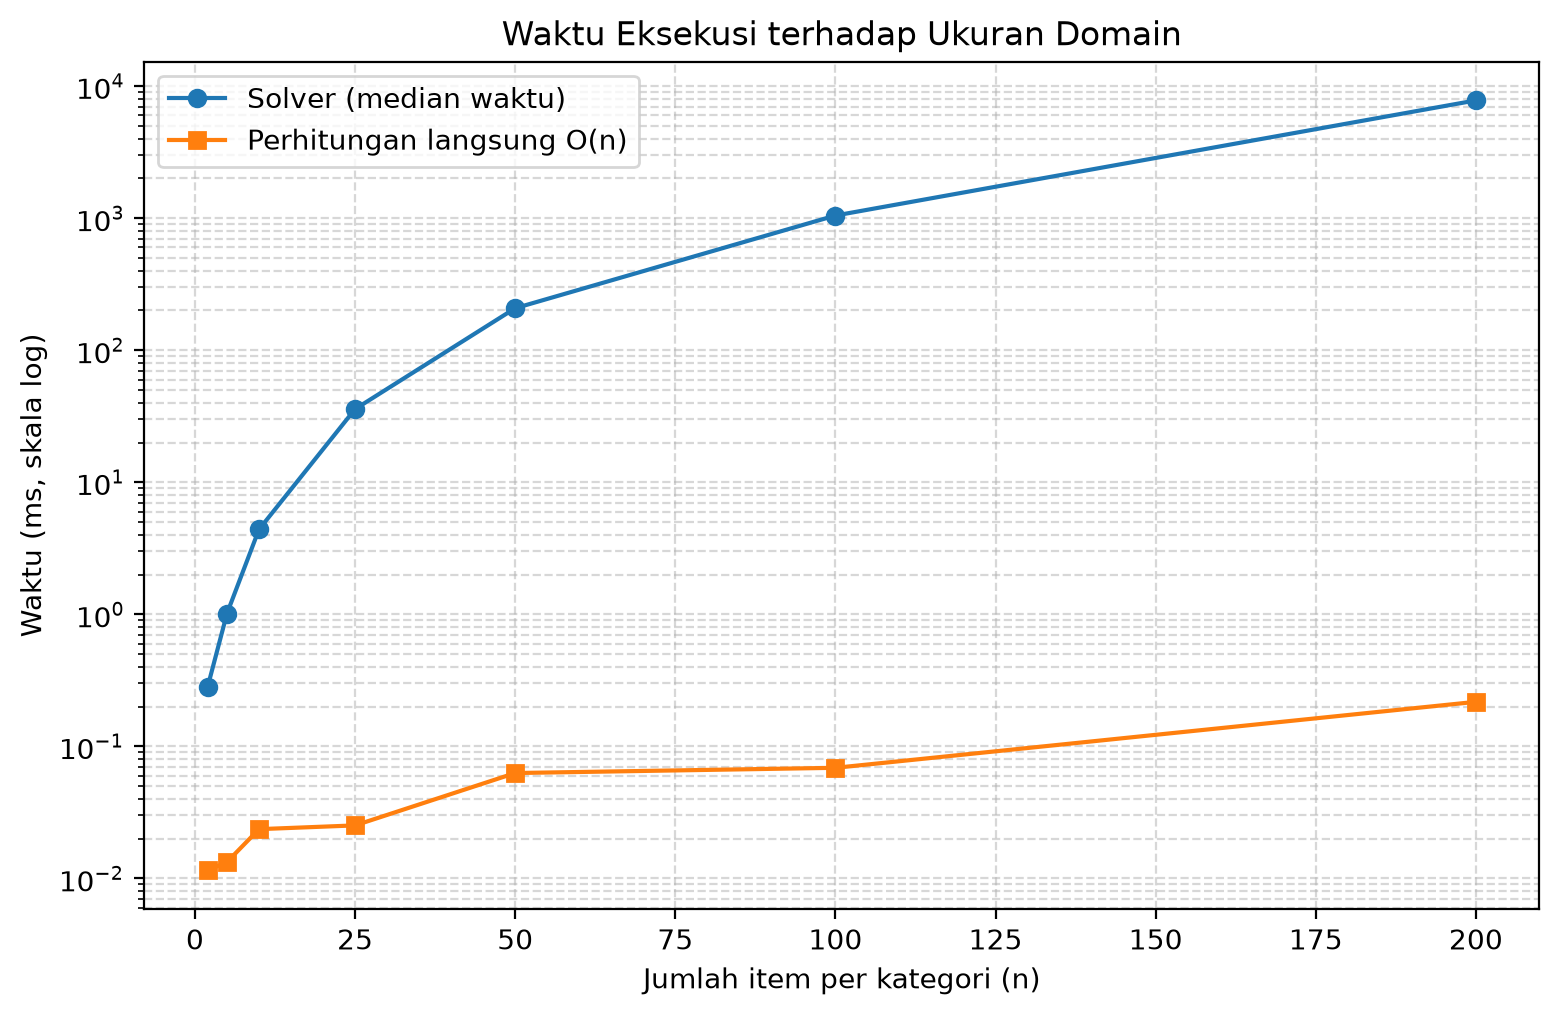
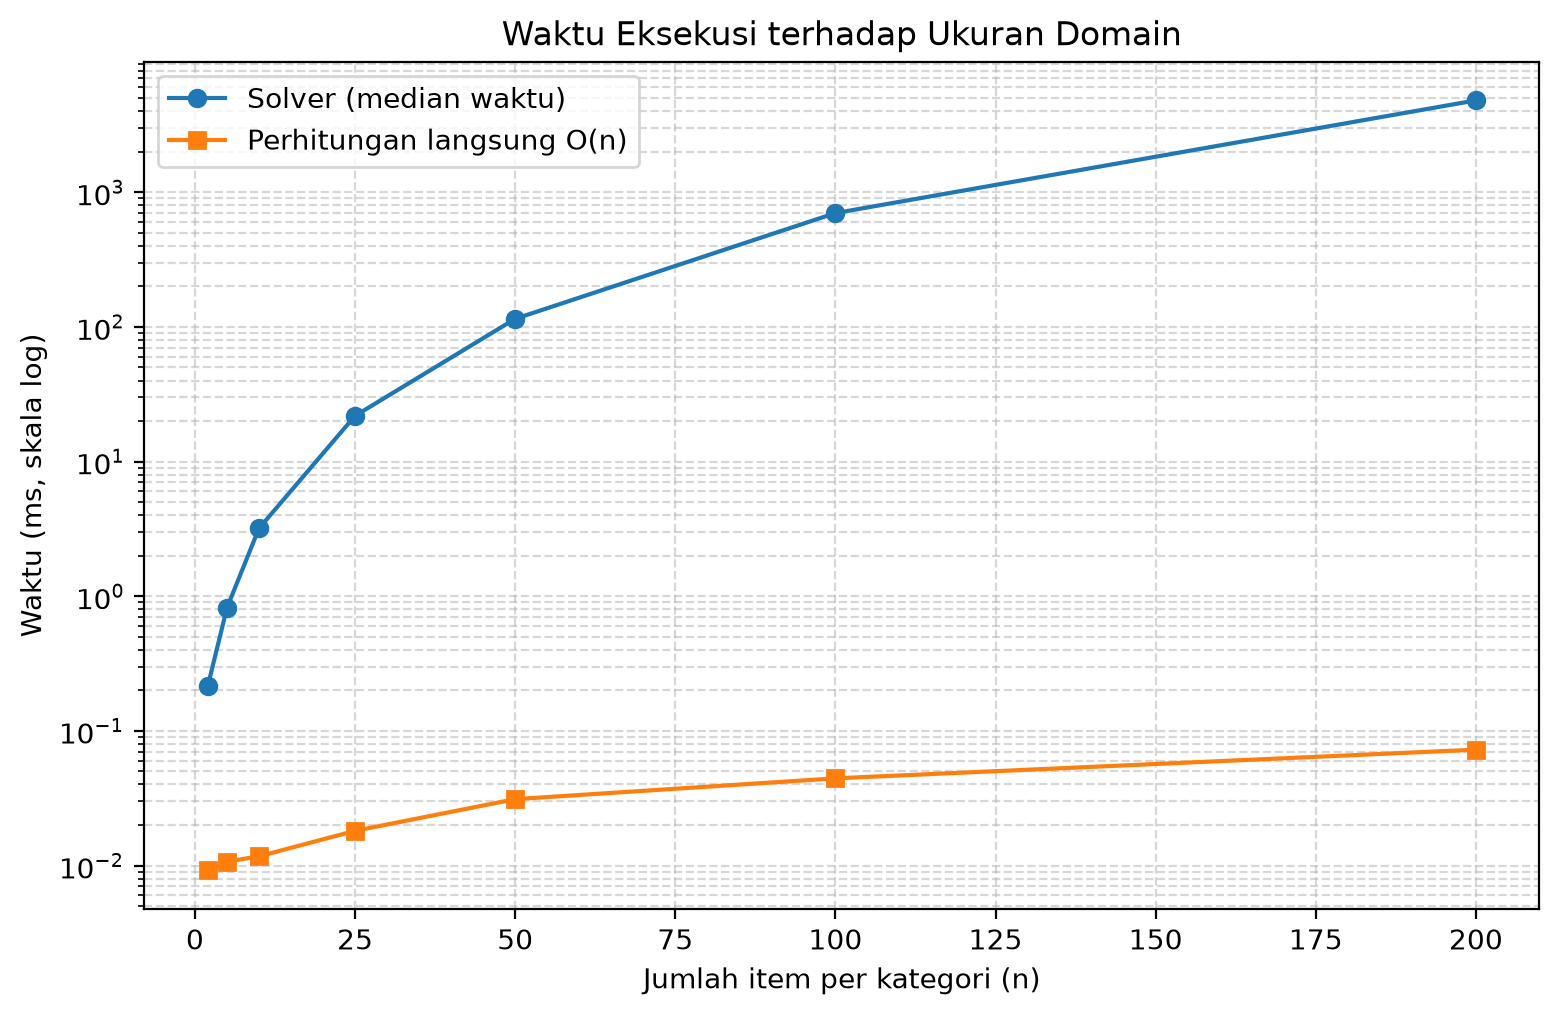
feat(perf): add sensitivity analysis data and scaling visualization plot

diff --git a/docs/milestone3_plan.md b/docs/milestone3_plan.md
@@ -1,0 +1,209 @@
+# Panduan Pengerjaan & Pembagian Peran Milestone 3 (W07)
+**Mata Kuliah:** 10S3001 – Kecerdasan Buatan (+P) | Gasal 2026/2027  
+**Proyek:** Toba Copilot (Enterprise AI Assistant & Vector Semantic Search)  
+**Judul Tugas:** Pembangunan Basis Pengetahuan Korpus & Vector Semantic Search  
+**Bobot Penilaian:** 9.0% Komponen Proyek (2.7% Nilai Akhir Semester)  
+
+---
+
+## 1. Pemahaman Singkat Milestone 3
+
+Milestone 3 berfokus pada pembangunan memori semantik perusahaan (*Enterprise Knowledge Base*) menggunakan basis data vektor **ChromaDB**. Sistem ini mengonversi korpus regulasi, standar operasional prosedur (SOP), dan kebijakan pariwisata Danau Toba ke dalam bentuk vektor padat (*dense vector embeddings*) untuk mendukung temu balik informasi semantik (*semantic retrieval*) yang akurat serta menjadi fondasi sistem *Retrieval-Augmented Generation* (RAG).
+
+### Komponen Rubrik Penilaian (Skala 100)
+1. **Kualitas Data Korpus & Prapemrosesan (25%):**
+   * Korpus representatif (minimal 10–15 dokumen SOP/regulasi bisnis).
+   * Pembersihan teks rapi dan terstruktur (tidak merusak semantik/aturan).
+   * Strategi *chunking* (*size* & *overlap*) memiliki landasan dan justifikasi ilmiah.
+2. **Pipeline Embedding & Vector Store ChromaDB (45%):**
+   * Pemilihan model *Sentence-Transformers* tepat (multilingual untuk teks Bahasa Indonesia).
+   * Penyimpanan berbasis disk/persisten (`chromadb.PersistentClient`).
+   * Konfigurasi ruang metrik HNSW secara eksplisit menggunakan *Cosine Similarity* (`{"hnsw": {"space": "cosine"}}`).
+   * Struktur *metadata* tersimpan lengkap untuk mendukung *metadata filtering* / *hybrid search*.
+3. **Akurasi & Analisis Temu Balik Semantik (30%):**
+   * Kueri semantik berhasil menarik dokumen target dengan skor *Cosine Similarity* tinggi.
+   * Uji coba minimal 5 kueri bisnis (kueri relevan, kueri sinonim/parafrasa, dan kueri *out-of-domain*).
+   * Penanganan kueri luar domain teruji presisi melalui mekanisme ambang batas (*guardrail threshold*).
+   * Analisis metrik temu balik: $P@k$ (*Precision@k*) dan $R@k$ (*Recall@k*).
+
+---
+
+## 2. Poin Kunci & Jebakan Teknis (Berdasarkan Materi Minggu 07)
+
+* **Jarak Bawaan ChromaDB Bukan Cosine:**  
+  ChromaDB secara *default* menggunakan metrik jarak kuadrat Euclidean (*squared* $L_2$). Koleksi **wajib** dikonfigurasi eksplisit ke ruang *cosine*:
+  ```python
+  collection = client.get_or_create_collection(
+      name="toba_knowledge_base",
+      configuration={"hnsw": {"space": "cosine"}}
+  )
+  ```
+  Pada ruang jarak *cosine*, skor kemiripan dihitung dengan rumus:
+  $$\text{Similarity} = 1 - \text{Distance}$$
+* **Model Multilingual vs Monolingual English:**  
+  Model bahasa Inggris murni (seperti `all-MiniLM-L6-v2`) memberikan skor kesamaan tinggi secara tidak wajar pada teks Bahasa Indonesia di luar domain (tidak memiliki *separability* yang baik). Gunakan model multibahasa resmi seperti `paraphrase-multilingual-MiniLM-L12-v2` agar pemisahan kueri sah dan kueri luar domain menjadi signifikan.
+* **Stopword Removal Hati-hati:**  
+  Menghapus kata-kata negasi seperti *"tidak"*, *"tanpa"*, atau *"dilarang"* dari dokumen regulasi/SOP akan membalikkan makna aturan secara fatal. Prapemrosesan harus mempertahankan konteks kalimat.
+* **Pencarian Cepat ANN (HNSW):**  
+  *Hierarchical Navigable Small World* (HNSW) menggantikan pencarian linear $O(N)$ menjadi skala logaritmik $O(\log N)$, menukar sedikit ketelitian demi kecepatan penelusuran di jutaan dimensi vektor.
+* **Ambang Batas (*Guardrail Threshold*):**  
+  Nilai ambang penolakan kueri di luar domain (misal $0.15 - 0.25$) harus diperoleh melalui kalibrasi uji empiris, bukan sekadar tebakan.
+
+---
+
+## 3. Pembagian Tugas Berdasarkan Peran Tim
+
+### Tim Pengembang — Kelompok 7
+
+| NIM | Nama | Peran (*Role*) |
+|---|---|---|
+| **12S24042** | **Ventyola Rohati Napitupulu** | Data & Knowledge Engineer |
+| **12S24003** | **Michael Pratama Nasution** | AI Architect & Model Lead |
+| **12S24027** | **Grasia Simanullang** | Integration & Interface Engineer |
+
+---
+
+### A. Ventyola Rohati Napitupulu — *Data & Knowledge Engineer*
+**Fokus Area:** Kurasi Korpus Bisnis, Metadata, Prapemrosesan, dan Strategi Chunking (Kontribusi Rubrik 25%)
+
+* [x] **Inisialisasi Dependensi & Lingkungan Kerja M3:**
+  * Menambahkan dependensi `sentence-transformers`, `chromadb`, dan `pypdf` ke `pyproject.toml` dan `uv.lock`.
+  * Mengonfigurasi `.gitignore` untuk mengabaikan artefak database vektor persisten `chroma_db/`.
+* [ ] **Pengumpulan Korpus Bisnis (10–15 Dokumen):**
+  * Mengumpulkan dan mengurasi 10–15 dokumen SOP, regulasi, dan manual kebijakan pariwisata Toba (contoh: SOP Reservasi & Check-in Homestay, Regulasi Retribusi & Tiket Wisata Pemkab Toba, Pedoman CHSE, Kebijakan Pembatalan, Panduan Wisata Air Danau Toba, Etika Konservasi Kaldera Toba).
+  * Menyimpan dokumen bersih dalam format teks terstruktur (`.txt` / `.md`) pada folder `data/corpus/`.
+* [ ] **Desain Skema Metadata:**
+  * Merancang atribut metadata untuk setiap dokumen (contoh: `doc_id`, `judul`, `kategori` seperti `akomodasi`/`regulasi`/`keamanan`, `instansi_penerbit`, `tanggal_berlaku`) untuk memungkinkan penyaringan (*metadata filtering*).
+* [ ] **Prapemrosesan Teks (*Text Cleaning*):**
+  * Mengembangkan fungsi normalisasi teks (pembersihan karakter liar, spasi ganda, penyeragaman format tanda baca).
+  * Memastikan kata negasi (*"tidak"*, *"dilarang"*, *"wajib"*) tidak tereduksi.
+* [ ] **Implementasi & Justifikasi Chunking:**
+  * Membagi dokumen menggunakan metode *word-aware/recursive chunking* dengan *sliding window overlap* (misal: chunk size 300–500 karakter dengan overlap 50–100 karakter).
+  * Menyusun kajian ilmiah/justifikasi dalam laporan mengenai penentuan parameter *chunk size* dan *overlap* (mencegah pemutusan makna kalimat penting).
+
+---
+
+### B. Michael Pratama Nasution — *AI Architect & Model Lead*
+**Fokus Area:** Seleksi Model Vektor, Desain Vector Store, Formulasi Guardrail, dan Analisis Matematis (Kontribusi Rubrik 45% & 30%)
+
+* [ ] **Analisis & Seleksi Model Embedding:**
+  * Mengkaji model *Sentence-Transformers* yang optimal untuk korpus Bahasa Indonesia (justifikasi pemilihan `paraphrase-multilingual-MiniLM-L12-v2` terhadap kebutuhan komputasi, dimensi 384, dan akurasi semantik).
+* [ ] **Arsitektur ChromaDB & Ruang Metrik:**
+  * Mengonfigurasi arsitektur penyimpanan berbasis disk persisten (`PersistentClient`).
+  * Mengunci konfigurasi metrik jarak pada HNSW ke ruang `cosine` (`{"hnsw": {"space": "cosine"}}`).
+* [ ] **Perancangan Ambang Batas (*Guardrail Threshold*):**
+  * Merancang batas toleransi skor kesamaan semantik secara empiris untuk menyaring kueri yang berada di luar cakupan korpus (*out-of-domain*).
+* [ ] **Evaluasi Matematis & Tolok Ukur Temu Balik:**
+  * Melakukan perhitungan teoritis dan analisis metrik evaluasi $P@k$ (*Precision@k*) dan $R@k$ (*Recall@k*).
+  * Memimpin penulisan dokumen laporan teknis PDF (`Grup07-Tugas03.pdf`) terutama pada bagian Arsitektur Model, Formulasi Matematis, dan Analisis Perbandingan Hasil Uji.
+
+---
+
+### C. Grasia Simanullang — *Integration & Interface Engineer*
+**Fokus Area:** Rekayasa Pipeline Ingestion, Modul Retriever, Pengujian Otomatis, dan Repositori (Kontribusi Rubrik 45% & 30%)
+
+* [ ] **Pembangunan Pipeline Ingestion End-to-End:**
+  * Mengembangkan skrip modular Python (misal: `ingest.py`) yang membaca file dari `data/corpus/`, memecah teks via modul chunking, mengekstrak embedding, dan mengindeks seluruh vektor beserta metadata ke dalam ChromaDB.
+* [ ] **Pengembangan Modul Pencarian (*Semantic Retriever*):**
+  * Mengembangkan antarmuka pencarian (misal: `retriever.py` atau kelas `VectorSearchEngine`) yang mendukung parameter kueri, nilai `top_k`, penyaringan metadata (`where={"kategori": "..."}`), dan pengecekan ambang batas (*threshold guardrail*).
+* [ ] **Penyusunan Pengujian & Tolok Ukur (*Benchmarking Suite*):**
+  * Mengimplementasikan skrip pengujian (misal: `benchmark.py` atau pengujian berbasis `pytest`) dengan minimal 5 skenario kueri bisnis:
+    1. Kueri Relevan Harfiah (*Exact/Keyword match*)
+    2. Kueri Relevan Parafrasa/Sinonim (*Semantic variation*)
+    3. Kueri Berbasis Spesifikasi/Kategori dengan Filter Metadata
+    4. Kueri Ambigu
+    5. Kueri *Out-of-Domain* (luar cakupan dokumen)
+  * Menghasilkan rekapitulasi data skor jarak (*distance*) dan kesamaan (*similarity*).
+* [x] **Sinkronisasi Repositori & Dependensi Proyek (Inisial):**
+  * Memverifikasi dependensi utama (`chromadb`, `sentence-transformers`, `pypdf`) di `pyproject.toml` dengan instalasi Astral `uv`.
+  * Memperbarui panduan instalasi dan eksekusi pada `README.md`.
+
+---
+
+## 4. Roadmap Eksekusi Milestone 3 (Tahapan Kerja Terpadu)
+
+Roadmap pengerjaan disusun ke dalam 5 fase berurutan untuk memastikan seluruh komponen rubrik (Korpus 25%, Vector Store 45%, Benchmark 30%) terpenuhi secara maksimal dan sistematis:
+
+```mermaid
+gantt
+    title Roadmap Eksekusi Milestone 3 - Toba Copilot
+    dateFormat  YYYY-MM-DD
+    section Fase 1: Data & Korpus
+    Kurasi 10-15 Dokumen SOP & Metadata (Ventyola)    :active, f1, 2026-11-05, 2d
+    section Fase 2: Chunking & Model
+    Word-aware Recursive Chunker (Ventyola)           :f2a, after f1, 1d
+    Konfigurasi Sentence-Transformers (Michael)       :f2b, after f1, 1d
+    section Fase 3: ChromaDB Vector Store
+    Pipeline Ingestion & Indexing Persisten (Grasia)  :f3, after f2a, 2d
+    section Fase 4: Retriever & Benchmark
+    Engine Retrieval & Guardrail Threshold (Grasia)   :f4a, after f3, 1d
+    Eksekusi 5 Kueri Benchmark, P@k, R@k (Michael)    :f4b, after f4a, 1d
+    section Fase 5: Pelaporan & Deliverables
+    Penyusunan Laporan PDF Grup07-Tugas03 (Michael)   :f5a, after f4b, 2d
+    Finalisasi README & Push Repo GitHub (Tim)        :f5b, after f5a, 1d
+```
+
+### Rincian Fase & Checklist Capaian
+
+| Fase | Target Luaran & Aktivitas Utama | Penanggung Jawab | Status |
+|---|---|---|:---:|
+| **Fase 1: Fondasi Data & Korpus Enterprise** | • Mengumpulkan 10–15 berkas SOP/kebijakan pariwisata Toba di `data/corpus/`<br>• Merancang skema metadata (`doc_id`, `kategori`, `instansi`, `target`)<br>• Normalisasi teks tanpa merusak makna aturan/negasi | **Ventyola Rohati** | 🟡 *In Progress* |
+| **Fase 2: Arsitektur Model & Chunking Engine** | • Pemilihan & justifikasi model `paraphrase-multilingual-MiniLM-L12-v2`<br>• Pembangunan skrip `src/chunking.py` (word-aware chunking dengan overlap)<br>• Penulisan justifikasi ilmiah ukuran chunk size & window overlap | **Ventyola Rohati** & **Michael Pratama** | ⚪ *Pending* |
+| **Fase 3: Persistent Indexing & ChromaDB** | • Pembuatan skrip `src/ingest.py` (baca korpus $\rightarrow$ chunk $\rightarrow$ embed $\rightarrow$ upsert)<br>• Konfigurasi disk persisten `chromadb.PersistentClient`<br>• Pengaturan ruang metrik HNSW eksplisit ke `cosine` | **Grasia Simanullang** | ⚪ *Pending* |
+| **Fase 4: Semantic Retriever & Benchmarking** | • Pembuatan skrip `src/retriever.py` (similarity search + metadata filter)<br>• Kalibrasi nilai empiris *guardrail threshold* penolakan kueri luar domain<br>• Pengujian 5 kueri bisnis & penghitungan metrik $P@k$ dan $R@k$ | **Grasia Simanullang** & **Michael Pratama** | ⚪ *Pending* |
+| **Fase 5: Laporan Teknis PDF & Finalisasi** | • Kompilasi dokumen laporan teknis `Grup07-Tugas03.pdf`<br>• Pembaruan panduan eksekusi di `README.md`<br>• Pengujian unit test via `pytest` & final push ke GitHub | **Michael Pratama** (Lead) & Seluruh Tim | ⚪ *Pending* |
+
+---
+
+## 5. Alur Kerja Antar-Peran (Collaboration Workflow)
+
+```mermaid
+flowchart TD
+    A[Ventyola: Kurasi 10-15 Dokumen SOP & Metadata] --> B[Ventyola: Preprocessing & Word-Aware Chunking]
+    B --> C[Michael: Inisialisasi Multilingual Model & Konfigurasi HNSW Cosine]
+    C --> D[Grasia: Skrip Ingestion & Persistent Indexing ChromaDB]
+    D --> E[Grasia: Implementasi Modul Retriever & Guardrail]
+    E --> F[Grasia & Michael: Eksekusi 5 Kueri Benchmark]
+    F --> G[Michael: Analisis Metrik P@k, R@k & Penulisan Laporan PDF]
+    G --> H[Tim: Finalisasi Repositori GitHub & Pengumpulan Dokumen]
+```
+
+---
+
+## 6. Rencana Struktur Berkas Proyek
+
+```
+Enterprise-AI-Copilot/
+├── data/
+│   ├── corpus/                     # Korpus dokumen SOP/Regulasi (Ventyola)
+│   │   ├── sop_reservasi_homestay.txt
+│   │   ├── regulasi_retribusi_pemkab.txt
+│   │   └── ... (minimal 10-15 dokumen)
+│   └── chroma_db/                  # Database persisten ChromaDB (Generated)
+├── src/
+│   ├── chunking.py                 # Word-aware recursive chunker (Ventyola)
+│   ├── ingest.py                   # Pipeline ingestion & embedding (Grasia)
+│   └── retriever.py                # Semantic search engine & guardrail (Grasia & Michael)
+├── tests/
+│   └── test_retrieval.py           # Unit test & benchmark kueri bisnis (Grasia)
+├── docs/
+│   ├── milestone3_plan.md          # Dokumen perencanaan ini
+│   └── Grup07-Tugas03.pdf          # Laporan teknis akhir (Michael Lead)
+├── pyproject.toml                  # Dependensi uv (chromadb, sentence-transformers)
+└── README.md                       # Dokumentasi instruksi eksekusi
+```
+
+---
+
+## 7. Luaran yang Harus Dikumpulkan
+
+1. **Laporan Teknis PDF:** Berkas `Grup07-Tugas03.pdf` yang diunggah ke portal e-Course Del, memuat:
+   * Landasan teori evolusi NLP, embedding, dan perbandingan ruang vektor.
+   * Deskripsi korpus enterprise beserta justifikasi parameter *chunking*.
+   * Arsitektur model embedding dan ChromaDB.
+   * Tabel hasil pengujian 5 kueri bisnis (disertai analisis skor *similarity*, presisi penolakan kueri *out-of-domain*, serta metrik $P@k$ dan $R@k$).
+2. **Repositori GitHub:**
+   * Seluruh kode sumber (`chunking.py`, `ingest.py`, `retriever.py`, skrip uji).
+   * Korpus dokumen enterprise di folder `data/corpus/`.
+   * Berkas `README.md` terbaharui dengan dokumentasi lengkap cara menjalankan pipeline ingestion dan pengujian temu balik semantik.
+
